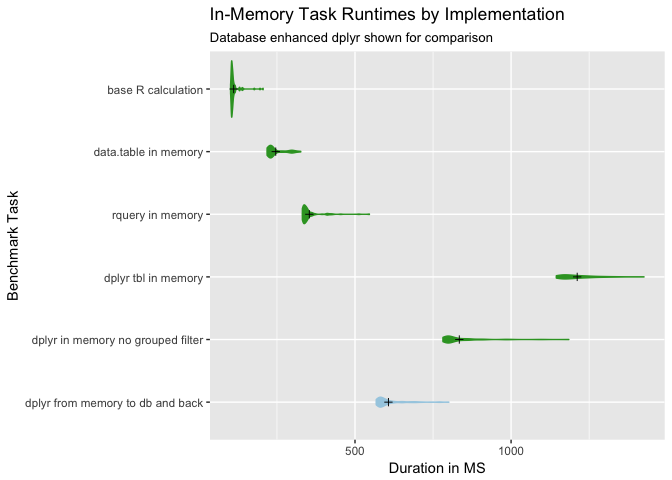
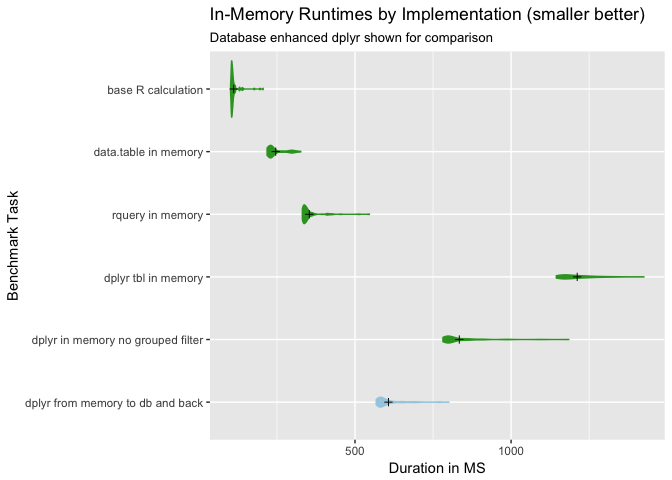
edit

Changed region(s): [[0.4375, 0.0, 0.75, 0.0625], [0.7812, 0.0, 0.9688, 0.0625]]

diff --git a/extras/QTimingFollowup/plotexample.md b/extras/QTimingFollowup/plotexample.md
@@ -1,7 +1,9 @@
 Plotting example
 ================
-Nina Zumel
+John Mount, Nina Zumel
 January 10, 2018
+
+As a follow-up to ["rquery: Fast Data Manipulation in R"](http://www.win-vector.com/blog/2018/01/rquery-fast-data-manipulation-in-r/) I re-ran the experiment with a nice "base R" implementation of the calculation added to the assessments. It turns out base R is much faster than any of the alternatives.
 
 ``` r
 knitr::opts_chunk$set(echo = TRUE)
@@ -57,7 +59,7 @@ colormap = runs := c(highlightcolor,
 tr <- timings[timings$expr %in% runs, , drop=FALSE]
 tr$expr <- factor(tr$expr, levels = rev(runs))
 plotbenchmark(tr, colormap, 
-              title = "In-Memory Task Runtimes by Implementation",
+              title = "In-Memory Runtimes by Implementation (smaller better)",
               subtitle = "Database enhanced dplyr shown for comparison")
 ```
 
